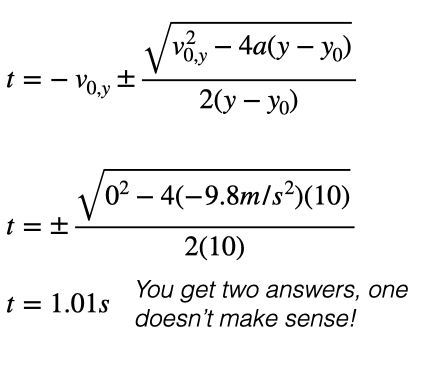
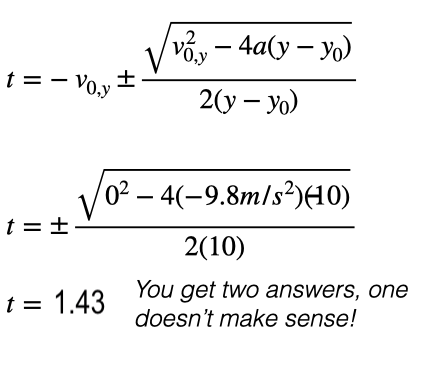
fixed the math

Changed region(s): [[0.1206, 0.7836, 0.2715, 0.874], [0.6937, 0.5123, 0.7541, 0.5425]]

diff --git a/_posts/2021-08-07-Projectile-Motion-Example.md b/_posts/2021-08-07-Projectile-Motion-Example.md
@@ -90,7 +90,7 @@ Please note, I've not written the equation you have exactly, but ours is a quadr
 
 ![Displacement Figure](https://github.com/lms464/lms464.github.io/blob/master/_images/Physics_Math_or_Not/Physics_Math_or_Not.0042.png?raw=true)
 
-One more reminder, you will get two answers, remember we are looking for a time, if you get an imaginary or negative time, its not the one you want. If you ONLY get negative or imaginary time, something has gone wrong. For us, we get a time that says the ball was in the air for 1.01 seconds! Great!! We can use this time to find the displacement in x!
+One more reminder, you will get two answers, remember we are looking for a time, if you get an imaginary or negative time, its not the one you want. If you ONLY get negative or imaginary time, something has gone wrong. For us, we get a time that says the ball was in the air for 1.43 seconds! Great!! We can use this time to find the displacement in x!
 
 ![Displacement Figure](https://github.com/lms464/lms464.github.io/blob/master/_images/Physics_Math_or_Not/Physics_Math_or_Not.005.png?raw=true)
 
@@ -98,7 +98,7 @@ So the ball should have travled about 2m in x! Excellent!
 
 
 
-Lets take a moment and talk about why we could *choose* an initial x position. The initial and final numbers, honestly, don't matter terribly much. What does matter is the for Δx. If the difference in x is 2m, everyhting is ok, the initial x could be 10m and the final could be 12m, and Δx is still 2m!
+Lets take a moment and talk about why we could *choose* an initial x position. The initial and final numbers, honestly, don't matter terribly much. What does matter is the for Δx. If the difference in x is 2m, everyhting is ok, the initial x could be 10m and the final could be 12m, and Δx is still 2.86m!
 
 Ok, we're all set! **Wrong!** We are looking for a distance, the *magnitude* of displacement. So what would the distance be? I'll be using the variable s to denote distance.
 
